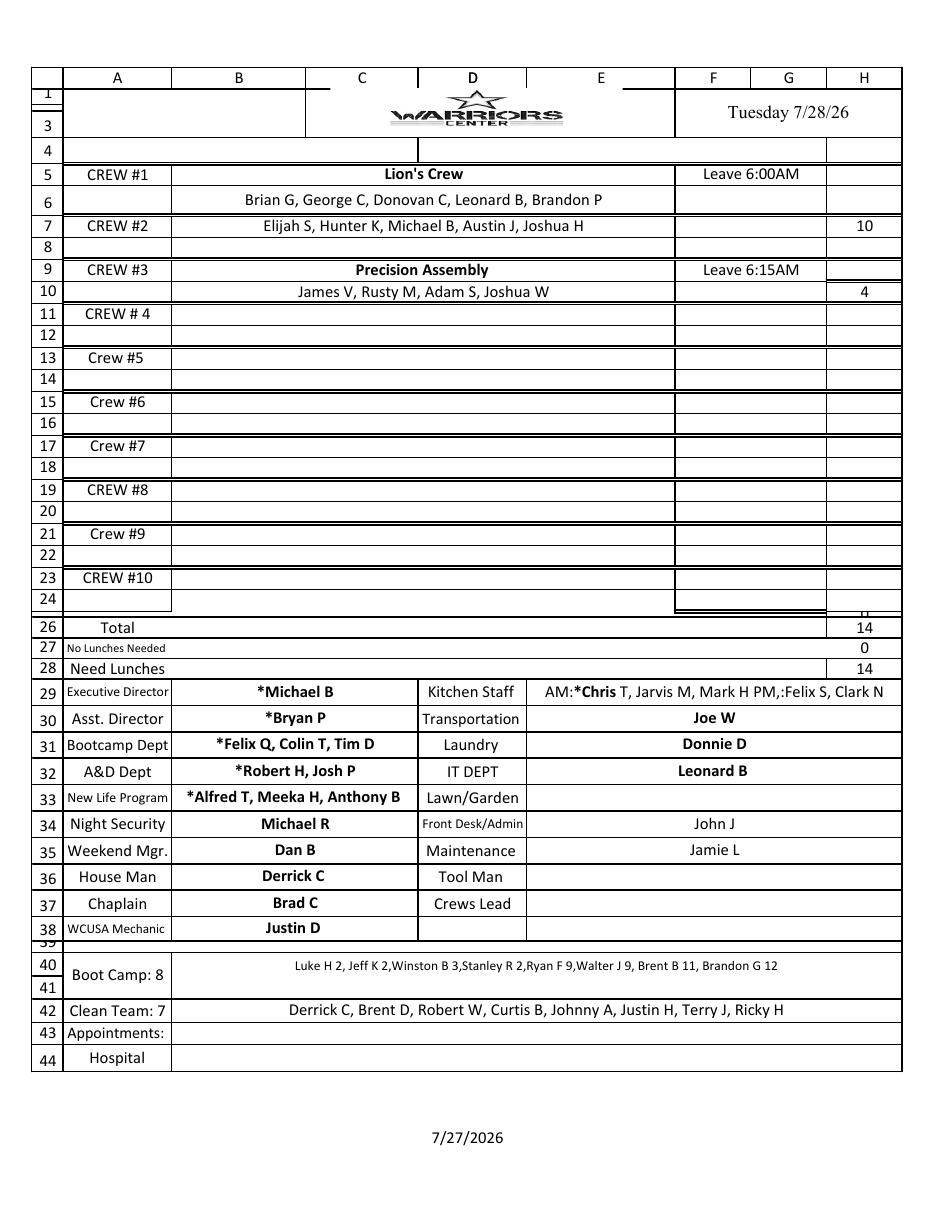
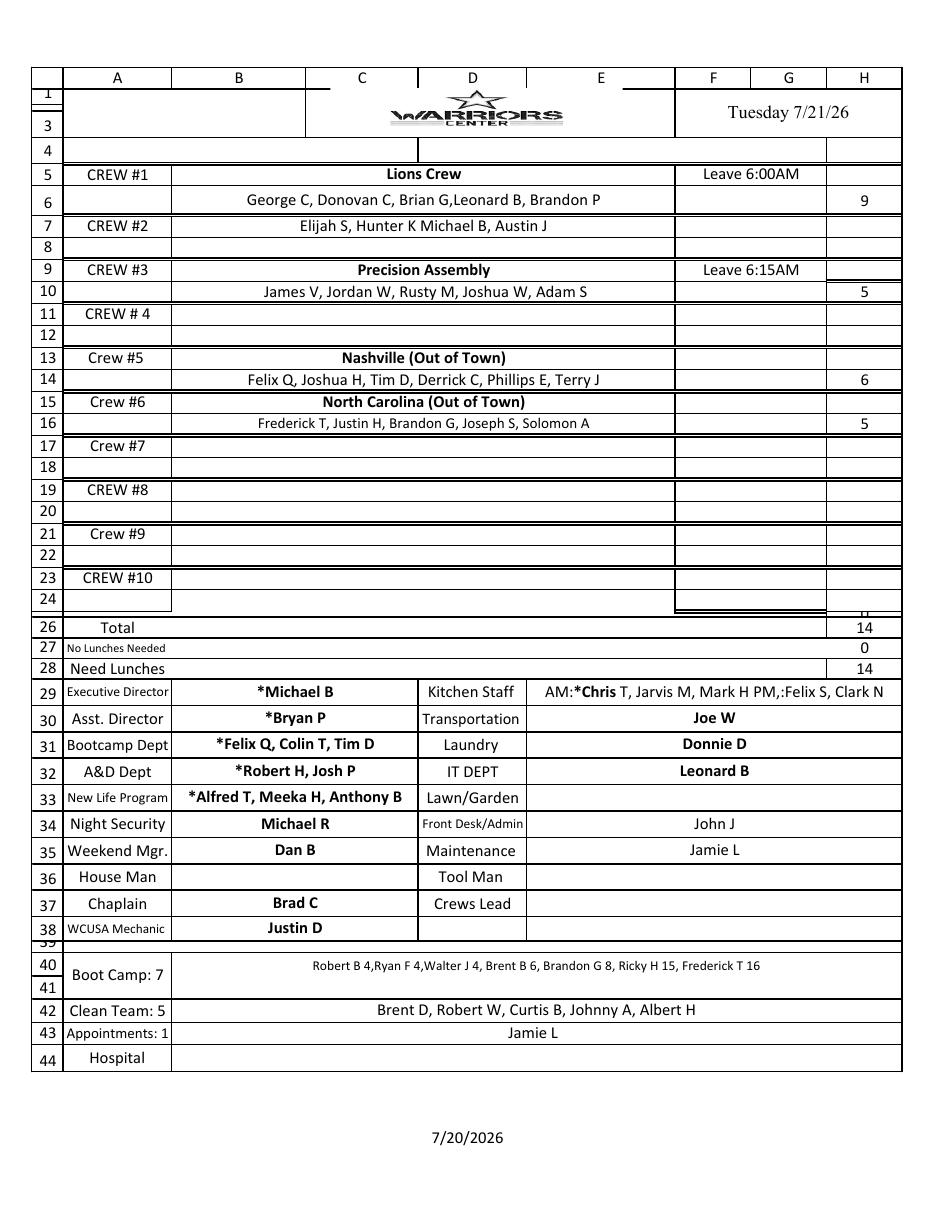
Add files via upload

diff --git a/bedcensus.html b/bedcensus.html
@@ -50,7 +50,7 @@
 <a class="back-link" href="index.html">&larr; Back to Dashboard</a>
 <h1>Warriors Center &mdash; Bed Census, All Centers</h1>
 <div class="sub">Room-by-room census as of the most recent fetch for each center.</div>
-<div class="generated">Page generated July 28, 2026</div>
+<div class="generated">Page generated July 29, 2026</div>
 <div class="nav"><a href="#Memphis">Memphis</a><a href="#Bolivar">Bolivar</a><a href="#OliveBranch">Olive Branch</a><a href="#Hardeman">Hardeman</a><a href="#NewAlbany">New Albany</a></div>
 
 <div class="center-section" id="Memphis">
@@ -86,13 +86,13 @@
 <div class="center-section" id="OliveBranch">
   <div class="center-header">
     <h2>Olive Branch</h2>
-    <div class="center-meta">Week of 07/27/26 &middot; 46 people listed</div>
+    <div class="center-meta">Week of 07/27/26 &middot; 45 people listed</div>
   </div>
   <div class="card-wrap">
     <table>
       <thead><tr><th>Room</th><th>Bed</th><th>Name</th><th>Rank</th><th>Sp. Lvl</th></tr></thead>
       <tbody>
-        <tr><td>1</td><td>1</td><td>Amanda Russell</td><td>E-1</td><td>L-0</td></tr><tr><td>1</td><td>2</td><td>Amber Gilchrest</td><td>E-2</td><td>L-0</td></tr><tr><td>1</td><td>3</td><td>Ashley Florez</td><td>Bootcamp</td><td>L-0</td></tr><tr><td>1</td><td>4</td><td>Miquala Shipp</td><td>Bootcamp</td><td>L-0</td></tr><tr><td>1</td><td>5</td><td>Annie Hackney</td><td>Bootcamp</td><td>L-0</td></tr><tr><td>2</td><td>1</td><td>Christina Huggins</td><td>Bootcamp</td><td>L-0</td></tr><tr><td>2</td><td>2</td><td>Kristie Jackson</td><td>Bootcamp</td><td>NA</td></tr><tr><td>2</td><td>3</td><td>Madison Parker</td><td>Bootcamp</td><td>L-0</td></tr><tr><td>3</td><td>1</td><td>Maxine Musgrove</td><td>E-5</td><td>L-1</td></tr><tr><td>3</td><td>2</td><td>Suzanne Clark</td><td>E-1</td><td>L-0</td></tr><tr><td>3</td><td>3</td><td>Vanessa Walker</td><td>E-1</td><td>L-0</td></tr><tr class="open-row"><td>3</td><td>4</td><td>Open</td><td>Open</td><td>Open</td></tr><tr><td>4</td><td>1</td><td>Theresa Wagner</td><td>Recruit</td><td>L-0</td></tr><tr><td>4</td><td>2</td><td>Marian Jones</td><td>Bootcamp</td><td>L-0</td></tr><tr><td>4</td><td>3</td><td>Jezivell Estep</td><td>Recruit</td><td>L-0</td></tr><tr><td>5</td><td>1</td><td>Janice Crews</td><td>E-6</td><td>L-2</td></tr><tr><td>5</td><td>2</td><td>Mia Garrens</td><td>E-4</td><td>L-1</td></tr><tr><td>5</td><td>3</td><td>Melissa Phillips</td><td>Help Staff</td><td>NA</td></tr><tr><td>5</td><td>4</td><td>Gwendolyn Wilson</td><td>E-1</td><td>L-0</td></tr><tr><td>6</td><td>1</td><td>Margaret Coffman</td><td>Recharge</td><td>NA</td></tr><tr><td>6</td><td>2</td><td>Melinda Dandridge</td><td>E-4</td><td>L-1</td></tr><tr><td>7</td><td>1</td><td>Hope Corbell</td><td>Help Staff</td><td>NA</td></tr><tr><td>7</td><td>2</td><td>January Tucker</td><td>E-5</td><td>L-1</td></tr><tr class="open-row"><td>8</td><td>1</td><td>Open</td><td>Open</td><td>Open</td></tr><tr><td>8</td><td>2</td><td>Stacy Matlock</td><td>Help Staff</td><td>NA</td></tr><tr><td>9</td><td>1</td><td>Rachal Overman</td><td>Help Staff</td><td>NA</td></tr><tr class="open-row"><td>Chapel</td><td>1</td><td>Open</td><td>Open</td><td>Open</td></tr><tr class="open-row"><td>Chapel</td><td>2</td><td>Open</td><td>Open</td><td>Open</td></tr><tr class="open-row"><td>Chapel</td><td>3</td><td>Open</td><td>Open</td><td>Open</td></tr><tr class="open-row"><td>Chapel</td><td>4</td><td>Open</td><td>Open</td><td>Open</td></tr><tr class="open-row"><td>Chapel</td><td>5</td><td>Open</td><td>Open</td><td>Open</td></tr><tr class="open-row"><td>Chapel</td><td>6</td><td>Open</td><td>Open</td><td>Open</td></tr><tr class="open-row"><td>Chapel</td><td>7</td><td>Open</td><td>Open</td><td>Open</td></tr><tr class="open-row"><td>Chapel</td><td>8</td><td>Open</td><td>Open</td><td>Open</td></tr><tr class="open-row"><td>Chapel</td><td>9</td><td>Open</td><td>Open</td><td>Open</td></tr><tr><td>grad house</td><td>1</td><td>Susan Hankins</td><td>Help Staff</td><td>NA</td></tr><tr><td>grad house</td><td>2</td><td>Cicely Guy</td><td>Help Staff</td><td>NA</td></tr><tr><td>grad house</td><td>3</td><td>Stephanie Chambers</td><td>Executive Staff</td><td>NA</td></tr><tr><td>grad house</td><td>4</td><td>Holly Tate</td><td>Help Staff</td><td>NA</td></tr><tr class="open-row"><td>grad house</td><td>5</td><td>Open</td><td>Open</td><td>Open</td></tr><tr><td>grad house</td><td>6</td><td>Melissa Hayes</td><td>Help Staff</td><td>NA</td></tr><tr><td>grad house</td><td>7</td><td>Tina Overman</td><td>Help Staff</td><td>NA</td></tr><tr><td>grad house</td><td>8</td><td>Debbie Brewer</td><td>Help Staff</td><td>NA</td></tr><tr><td>grad house</td><td>9</td><td>Veronica Rebertus</td><td>Help Staff</td><td>NA</td></tr><tr><td>grad house</td><td>10</td><td>Sabrina Hicks</td><td>Help Staff</td><td>NA</td></tr><tr><td>staff house</td><td>1</td><td>Lucia Strauss</td><td>Executive Staff</td><td>NA</td></tr><tr><td>staff house</td><td>2</td><td>Wendy Nelson</td><td>E-6</td><td>L-2</td></tr><tr><td>staff house</td><td>3</td><td>Susan Turman</td><td>Help Staff</td><td>NA</td></tr><tr><td>staff house</td><td>4</td><td>Tiffany Jackson</td><td>E-6</td><td>L-2</td></tr><tr><td>staff house</td><td>5</td><td>Angie Miller</td><td>Help Staff</td><td>NA</td></tr><tr><td>staff house</td><td>6</td><td>Renee Thompson</td><td>Graduate</td><td>NA</td></tr><tr><td>staff house</td><td>7</td><td>Destinii Winborne</td><td>E-7</td><td>L-2</td></tr><tr><td>staff house</td><td>8</td><td>Sandy Gross</td><td>Help Staff</td><td>NA</td></tr><tr><td>staff house</td><td>9</td><td>Katrina Jones</td><td>E-8</td><td>L-3</td></tr><tr><td>staff house</td><td>10</td><td>Tanya Howell</td><td>E-9</td><td>L-3</td></tr><tr><td>staff house</td><td>11</td><td>Emily Rhea</td><td>Graduate</td><td>NA</td></tr><tr><td>staff house</td><td>12</td><td>Pamela Ross</td><td>Help Staff</td><td>NA</td></tr><tr><td>staff house</td><td>13</td><td>Racheal Culver</td><td>E-5</td><td>L-1</td></tr>
+        <tr><td>1</td><td>1</td><td>Amanda Russell</td><td>E-1</td><td>L-0</td></tr><tr><td>1</td><td>2</td><td>Amber Gilchrest</td><td>E-2</td><td>L-0</td></tr><tr><td>1</td><td>3</td><td>Ashley Florez</td><td>Bootcamp</td><td>L-0</td></tr><tr><td>1</td><td>4</td><td>Miquala Shipp</td><td>Bootcamp</td><td>L-0</td></tr><tr><td>1</td><td>5</td><td>Annie Hackney</td><td>Bootcamp</td><td>L-0</td></tr><tr><td>2</td><td>1</td><td>Christina Huggins</td><td>Bootcamp</td><td>L-0</td></tr><tr><td>2</td><td>2</td><td>Kristie Jackson</td><td>Bootcamp</td><td>NA</td></tr><tr><td>2</td><td>3</td><td>Madison Parker</td><td>Bootcamp</td><td>L-0</td></tr><tr><td>3</td><td>1</td><td>Maxine Musgrove</td><td>E-5</td><td>L-1</td></tr><tr><td>3</td><td>2</td><td>Suzanne Clark</td><td>E-1</td><td>L-0</td></tr><tr><td>3</td><td>3</td><td>Vanessa Walker</td><td>E-1</td><td>L-0</td></tr><tr class="open-row"><td>3</td><td>4</td><td>Open</td><td>Open</td><td>Open</td></tr><tr><td>4</td><td>1</td><td>Theresa Wagner</td><td>Recruit</td><td>L-0</td></tr><tr><td>4</td><td>2</td><td>Marian Jones</td><td>Bootcamp</td><td>L-0</td></tr><tr><td>4</td><td>3</td><td>Jezivell Estep</td><td>Recruit</td><td>L-0</td></tr><tr><td>5</td><td>1</td><td>Janice Crews</td><td>E-6</td><td>L-2</td></tr><tr><td>5</td><td>2</td><td>Mia Garrens</td><td>E-4</td><td>L-1</td></tr><tr><td>5</td><td>3</td><td>Melissa Phillips</td><td>Help Staff</td><td>NA</td></tr><tr><td>5</td><td>4</td><td>Gwendolyn Wilson</td><td>E-1</td><td>L-0</td></tr><tr><td>6</td><td>1</td><td>Margaret Coffman</td><td>Recharge</td><td>NA</td></tr><tr><td>6</td><td>2</td><td>Melinda Dandridge</td><td>E-4</td><td>L-1</td></tr><tr><td>7</td><td>1</td><td>Hope Corbell</td><td>Help Staff</td><td>NA</td></tr><tr><td>7</td><td>2</td><td>January Tucker</td><td>E-5</td><td>L-1</td></tr><tr class="open-row"><td>8</td><td>1</td><td>Open</td><td>Open</td><td>Open</td></tr><tr><td>8</td><td>2</td><td>Stacy Matlock</td><td>Help Staff</td><td>NA</td></tr><tr><td>9</td><td>1</td><td>Rachal Overman</td><td>Help Staff</td><td>NA</td></tr><tr class="open-row"><td>Chapel</td><td>1</td><td>Open</td><td>Open</td><td>Open</td></tr><tr class="open-row"><td>Chapel</td><td>2</td><td>Open</td><td>Open</td><td>Open</td></tr><tr class="open-row"><td>Chapel</td><td>3</td><td>Open</td><td>Open</td><td>Open</td></tr><tr class="open-row"><td>Chapel</td><td>4</td><td>Open</td><td>Open</td><td>Open</td></tr><tr class="open-row"><td>Chapel</td><td>5</td><td>Open</td><td>Open</td><td>Open</td></tr><tr class="open-row"><td>Chapel</td><td>6</td><td>Open</td><td>Open</td><td>Open</td></tr><tr class="open-row"><td>Chapel</td><td>7</td><td>Open</td><td>Open</td><td>Open</td></tr><tr class="open-row"><td>Chapel</td><td>8</td><td>Open</td><td>Open</td><td>Open</td></tr><tr class="open-row"><td>Chapel</td><td>9</td><td>Open</td><td>Open</td><td>Open</td></tr><tr><td>grad house</td><td>1</td><td>Susan Hankins</td><td>Help Staff</td><td>NA</td></tr><tr><td>grad house</td><td>2</td><td>Cicely Guy</td><td>Help Staff</td><td>NA</td></tr><tr><td>grad house</td><td>3</td><td>Stephanie Chambers</td><td>Executive Staff</td><td>NA</td></tr><tr><td>grad house</td><td>4</td><td>Holly Tate</td><td>Help Staff</td><td>NA</td></tr><tr class="open-row"><td>grad house</td><td>5</td><td>Open</td><td>Open</td><td>Open</td></tr><tr><td>grad house</td><td>6</td><td>Melissa Hayes</td><td>Help Staff</td><td>NA</td></tr><tr><td>grad house</td><td>7</td><td>Tina Overman</td><td>Help Staff</td><td>NA</td></tr><tr><td>grad house</td><td>8</td><td>Debbie Brewer</td><td>Help Staff</td><td>NA</td></tr><tr><td>grad house</td><td>9</td><td>Veronica Rebertus</td><td>Help Staff</td><td>NA</td></tr><tr><td>grad house</td><td>10</td><td>Sabrina Hicks</td><td>Help Staff</td><td>NA</td></tr><tr><td>staff house</td><td>1</td><td>Lucia Strauss</td><td>Executive Staff</td><td>NA</td></tr><tr><td>staff house</td><td>2</td><td>Wendy Nelson</td><td>E-6</td><td>L-2</td></tr><tr><td>staff house</td><td>3</td><td>Susan Turman</td><td>Help Staff</td><td>NA</td></tr><tr><td>staff house</td><td>4</td><td>Tiffany Jackson</td><td>E-6</td><td>L-2</td></tr><tr><td>staff house</td><td>5</td><td>Angie Miller</td><td>Help Staff</td><td>NA</td></tr><tr><td>staff house</td><td>6</td><td>Renee Thompson</td><td>Graduate</td><td>NA</td></tr><tr><td>staff house</td><td>7</td><td>Destinii Winborne</td><td>E-7</td><td>L-2</td></tr><tr><td>staff house</td><td>8</td><td>Sandy Gross</td><td>Help Staff</td><td>NA</td></tr><tr><td>staff house</td><td>9</td><td>Katrina Jones</td><td>E-8</td><td>L-3</td></tr><tr class="open-row"><td>staff house</td><td>10</td><td>Open</td><td>Open</td><td>Open</td></tr><tr><td>staff house</td><td>11</td><td>Emily Rhea</td><td>Graduate</td><td>NA</td></tr><tr><td>staff house</td><td>12</td><td>Pamela Ross</td><td>Help Staff</td><td>NA</td></tr><tr><td>staff house</td><td>13</td><td>Racheal Culver</td><td>E-5</td><td>L-1</td></tr>
       </tbody>
     </table>
   </div>
@@ -116,13 +116,13 @@
 <div class="center-section" id="NewAlbany">
   <div class="center-header">
     <h2>New Albany</h2>
-    <div class="center-meta">Week of 07/20/26 &middot; 14 people listed</div>
+    <div class="center-meta">Week of 07/06/26 &middot; 15 people listed</div>
   </div>
   <div class="card-wrap">
     <table>
       <thead><tr><th>Room</th><th>Bed</th><th>Name</th><th>Rank</th><th>Sp. Lvl</th></tr></thead>
       <tbody>
-        <tr class="open-row"><td>1</td><td>1</td><td>Open</td><td>Open</td><td>Open</td></tr><tr><td>1</td><td>2</td><td>Courtney Riddle</td><td>Help Staff</td><td>NA</td></tr><tr><td>1</td><td>3</td><td>Clarissa Resley</td><td>Help Staff</td><td>NA</td></tr><tr><td>1</td><td>4</td><td>Brandy Woods</td><td>Bootcamp</td><td>L-0</td></tr><tr><td>2</td><td>1</td><td>Dawn Farmer</td><td>Bootcamp</td><td>L-0</td></tr><tr><td>2</td><td>2</td><td>Kimetra Wright</td><td>Help Staff</td><td>NA</td></tr><tr><td>2</td><td>3</td><td>Crystal Lipsey</td><td>E-5</td><td>L-1</td></tr><tr><td>2</td><td>4</td><td>Shannon Hopkins</td><td>Help Staff</td><td>NA</td></tr><tr class="open-row"><td>3</td><td>1</td><td>Open</td><td>Open</td><td>Open</td></tr><tr><td>3</td><td>2</td><td>Anita Sartino</td><td>E-2</td><td>L-0</td></tr><tr class="open-row"><td>3</td><td>3</td><td>Open</td><td>Open</td><td>Open</td></tr><tr><td>3</td><td>4</td><td>Sable Lumpkins</td><td>Executive Staff</td><td>NA</td></tr><tr><td>4</td><td>1</td><td>Tracy Ramsey</td><td>Help Staff</td><td>NA</td></tr><tr><td>4</td><td>2</td><td>Linda Baillio</td><td>Executive Staff</td><td>NA</td></tr><tr><td>4</td><td>3</td><td>Mary Feathers</td><td>E-7</td><td>L-2</td></tr><tr class="open-row"><td>4</td><td>4</td><td>Open</td><td>Open</td><td>Open</td></tr><tr><td>5</td><td>1</td><td>Theresa Hughes</td><td>Executive Staff</td><td>NA</td></tr><tr><td>5</td><td>2</td><td>Cara Byrd</td><td>Executive Staff</td><td>NA</td></tr><tr class="open-row"><td>6</td><td>1</td><td>Open</td><td>Open</td><td>Open</td></tr><tr class="open-row"><td>6</td><td>2</td><td>Open</td><td>Open</td><td>Open</td></tr><tr class="open-row"><td>6</td><td>3</td><td>Open</td><td>Open</td><td>Open</td></tr><tr class="open-row"><td>6</td><td>4</td><td>Open</td><td>Open</td><td>Open</td></tr><tr class="open-row"><td>7</td><td>1</td><td>Open</td><td>Open</td><td>Open</td></tr><tr class="open-row"><td>7</td><td>2</td><td>Open</td><td>Open</td><td>Open</td></tr><tr class="open-row"><td>7</td><td>3</td><td>Open</td><td>Open</td><td>Open</td></tr><tr class="open-row"><td>7</td><td>4</td><td>Open</td><td>Open</td><td>Open</td></tr><tr class="open-row"><td>8</td><td>1</td><td>Open</td><td>Open</td><td>Open</td></tr><tr class="open-row"><td>8</td><td>2</td><td>Open</td><td>Open</td><td>Open</td></tr><tr class="open-row"><td>8</td><td>3</td><td>Open</td><td>Open</td><td>Open</td></tr><tr class="open-row"><td>8</td><td>4</td><td>Open</td><td>Open</td><td>Open</td></tr><tr class="open-row"><td>9</td><td>1</td><td>Open</td><td>Open</td><td>Open</td></tr><tr class="open-row"><td>9</td><td>2</td><td>Open</td><td>Open</td><td>Open</td></tr><tr class="open-row"><td>9</td><td>3</td><td>Open</td><td>Open</td><td>Open</td></tr><tr class="open-row"><td>9</td><td>4</td><td>Open</td><td>Open</td><td>Open</td></tr><tr class="open-row"><td>10</td><td>1</td><td>Open</td><td>Open</td><td>Open</td></tr><tr class="open-row"><td>10</td><td>2</td><td>Open</td><td>Open</td><td>Open</td></tr>
+        <tr class="open-row"><td>1</td><td>1</td><td>Open</td><td>Open</td><td>Open</td></tr><tr><td>1</td><td>2</td><td>Courtney Riddle</td><td>Help Staff</td><td>NA</td></tr><tr><td>1</td><td>3</td><td>Clarissa Resley</td><td>Help Staff</td><td>NA</td></tr><tr><td>1</td><td>4</td><td>Brandy Woods</td><td>Bootcamp</td><td>L-0</td></tr><tr><td>2</td><td>1</td><td>Dawn Farmer</td><td>Bootcamp</td><td>L-0</td></tr><tr><td>2</td><td>2</td><td>Kimetra Wright</td><td>Help Staff</td><td>NA</td></tr><tr><td>2</td><td>3</td><td>Crystal Lipsey</td><td>E-5</td><td>L-1</td></tr><tr><td>2</td><td>4</td><td>Shannon Hopkins</td><td>Help Staff</td><td>NA</td></tr><tr class="open-row"><td>3</td><td>1</td><td>Open</td><td>Open</td><td>Open</td></tr><tr><td>3</td><td>2</td><td>Anita Sartino</td><td>E-2</td><td>L-0</td></tr><tr class="open-row"><td>3</td><td>3</td><td>Open</td><td>Open</td><td>Open</td></tr><tr><td>3</td><td>4</td><td>Sable Lumpkins</td><td>Executive Staff</td><td>NA</td></tr><tr><td>4</td><td>1</td><td>Tracy Ramsey</td><td>Help Staff</td><td>NA</td></tr><tr><td>4</td><td>2</td><td>Linda Baillio</td><td>Executive Staff</td><td>NA</td></tr><tr><td>4</td><td>3</td><td>Mary Feathers</td><td>E-5</td><td>L-1</td></tr><tr><td>4</td><td>4</td><td>Samantha Barnes</td><td>Bootcamp</td><td>L-0</td></tr><tr><td>5</td><td>1</td><td>Theresa Hughes</td><td>Executive Staff</td><td>NA</td></tr><tr><td>5</td><td>2</td><td>Cara Byrd</td><td>Executive Staff</td><td>NA</td></tr><tr class="open-row"><td>6</td><td>1</td><td>Open</td><td>Open</td><td>Open</td></tr><tr class="open-row"><td>6</td><td>2</td><td>Open</td><td>Open</td><td>Open</td></tr><tr class="open-row"><td>6</td><td>3</td><td>Open</td><td>Open</td><td>Open</td></tr><tr class="open-row"><td>6</td><td>4</td><td>Open</td><td>Open</td><td>Open</td></tr><tr class="open-row"><td>7</td><td>1</td><td>Open</td><td>Open</td><td>Open</td></tr><tr class="open-row"><td>7</td><td>2</td><td>Open</td><td>Open</td><td>Open</td></tr><tr class="open-row"><td>7</td><td>3</td><td>Open</td><td>Open</td><td>Open</td></tr><tr class="open-row"><td>7</td><td>4</td><td>Open</td><td>Open</td><td>Open</td></tr><tr class="open-row"><td>8</td><td>1</td><td>Open</td><td>Open</td><td>Open</td></tr><tr class="open-row"><td>8</td><td>2</td><td>Open</td><td>Open</td><td>Open</td></tr><tr class="open-row"><td>8</td><td>3</td><td>Open</td><td>Open</td><td>Open</td></tr><tr class="open-row"><td>8</td><td>4</td><td>Open</td><td>Open</td><td>Open</td></tr><tr class="open-row"><td>9</td><td>1</td><td>Open</td><td>Open</td><td>Open</td></tr><tr class="open-row"><td>9</td><td>2</td><td>Open</td><td>Open</td><td>Open</td></tr><tr class="open-row"><td>9</td><td>3</td><td>Open</td><td>Open</td><td>Open</td></tr><tr class="open-row"><td>9</td><td>4</td><td>Open</td><td>Open</td><td>Open</td></tr><tr class="open-row"><td>10</td><td>1</td><td>Open</td><td>Open</td><td>Open</td></tr><tr class="open-row"><td>10</td><td>2</td><td>Open</td><td>Open</td><td>Open</td></tr>
       </tbody>
     </table>
   </div>

diff --git a/index.html b/index.html
@@ -5026,6 +5026,274 @@
         "cost_ytd": 1921642.05,
         "cost_as_of_date": "2026-06-30"
       }
+    },
+    {
+      "date": "2026-07-29",
+      "generated_at": "2026-07-29T10:18:52.764483",
+      "centers": {
+        "Memphis": {
+          "as_of_date": "2026-07-27",
+          "beds_occupied": 63,
+          "total_beds": 69,
+          "occupancy_pct": 91.3,
+          "staff_grad_beds": 8,
+          "program_residents": 55,
+          "rank_counts": {
+            "Bootcamp": 7,
+            "Recruit": 10,
+            "Recharge": 3,
+            "E-1": 9,
+            "E-2": 4,
+            "E-3": 4,
+            "E-4": 2,
+            "E-5": 3,
+            "E-6": 6,
+            "E-7": 3,
+            "E-8": 3,
+            "E-9": 2,
+            "Graduate": 14,
+            "Help Staff": 11,
+            "Executive Staff": 2
+          },
+          "occ_methodology": "bed_census",
+          "ytd_arrivals": 126,
+          "ytd_departures": 114,
+          "ytd_net": 12,
+          "t30_arrivals": 4,
+          "t30_departures": 1,
+          "t30_net": 3,
+          "avg_los_days_since_1_1_25": 61.9,
+          "bootcamp_cohort_n": 106,
+          "bootcamp_completed_n": 49,
+          "bootcamp_completion_pct": 46.2,
+          "recharge_current_count": 8,
+          "core_program_current": 65,
+          "recharge_pct_current": 12.3,
+          "graduates_current_year": 2,
+          "graduates_since_1_1_25": 13,
+          "cost_per_bed_day": 41.45,
+          "cost_ytd": 660145.48,
+          "cost_as_of_date": "2026-06-30"
+        },
+        "Bolivar": {
+          "as_of_date": "2026-07-28",
+          "beds_occupied": 60,
+          "total_beds": 67,
+          "occupancy_pct": 89.6,
+          "staff_grad_beds": 26,
+          "program_residents": 34,
+          "rank_counts": {
+            "Bootcamp": 9,
+            "Recruit": 3,
+            "Recharge": 1,
+            "E-1": 8,
+            "E-2": 4,
+            "E-3": 2,
+            "E-4": 3,
+            "E-5": 0,
+            "E-6": 2,
+            "E-7": 1,
+            "E-8": 1,
+            "E-9": 0,
+            "Graduate": 20,
+            "Help Staff": 7,
+            "Executive Staff": 3
+          },
+          "occ_methodology": "bed_census",
+          "ytd_arrivals": 83,
+          "ytd_departures": 83,
+          "ytd_net": 0,
+          "t30_arrivals": 0,
+          "t30_departures": 0,
+          "t30_net": 0,
+          "avg_los_days_since_1_1_25": 61.7,
+          "bootcamp_cohort_n": 76,
+          "bootcamp_completed_n": 27,
+          "bootcamp_completion_pct": 35.5,
+          "recharge_current_count": 2,
+          "core_program_current": 37,
+          "recharge_pct_current": 5.4,
+          "graduates_current_year": 6,
+          "graduates_since_1_1_25": 15,
+          "cost_per_bed_day": 31.42,
+          "cost_ytd": 420773.68,
+          "cost_as_of_date": "2026-06-30"
+        },
+        "Olive Branch": {
+          "as_of_date": "2026-07-28",
+          "beds_occupied": 24,
+          "total_beds": 26,
+          "occupancy_pct": 92.3,
+          "staff_grad_beds": 4,
+          "program_residents": 20,
+          "rank_counts": {
+            "Bootcamp": 7,
+            "Recruit": 2,
+            "Recharge": 1,
+            "E-1": 4,
+            "E-2": 1,
+            "E-3": 0,
+            "E-4": 2,
+            "E-5": 3,
+            "E-6": 3,
+            "E-7": 1,
+            "E-8": 1,
+            "E-9": 0,
+            "Graduate": 2,
+            "Help Staff": 16,
+            "Executive Staff": 2
+          },
+          "occ_methodology": "bed_census",
+          "ytd_arrivals": 38,
+          "ytd_departures": 33,
+          "ytd_net": 5,
+          "t30_arrivals": 1,
+          "t30_departures": 2,
+          "t30_net": -1,
+          "avg_los_days_since_1_1_25": 91.6,
+          "bootcamp_cohort_n": 29,
+          "bootcamp_completed_n": 13,
+          "bootcamp_completion_pct": 44.8,
+          "recharge_current_count": 2,
+          "core_program_current": 27,
+          "recharge_pct_current": 7.4,
+          "graduates_current_year": 6,
+          "graduates_since_1_1_25": 26,
+          "cost_per_bed_day": 50.58,
+          "cost_ytd": 448607.35,
+          "cost_as_of_date": "2026-06-30"
+        },
+        "Hardeman": {
+          "as_of_date": "2026-07-28",
+          "beds_occupied": 17,
+          "total_beds": 17,
+          "occupancy_pct": 100.0,
+          "staff_grad_beds": 7,
+          "program_residents": 10,
+          "rank_counts": {
+            "Bootcamp": 2,
+            "Recruit": 0,
+            "Recharge": 2,
+            "E-1": 0,
+            "E-2": 2,
+            "E-3": 1,
+            "E-4": 0,
+            "E-5": 0,
+            "E-6": 0,
+            "E-7": 1,
+            "E-8": 2,
+            "E-9": 0,
+            "Graduate": 0,
+            "Help Staff": 5,
+            "Executive Staff": 2
+          },
+          "occ_methodology": "bed_census",
+          "ytd_arrivals": 15,
+          "ytd_departures": 12,
+          "ytd_net": 3,
+          "t30_arrivals": 0,
+          "t30_departures": 0,
+          "t30_net": 0,
+          "avg_los_days_since_1_1_25": 109.7,
+          "bootcamp_cohort_n": 14,
+          "bootcamp_completed_n": 7,
+          "bootcamp_completion_pct": 50.0,
+          "recharge_current_count": 3,
+          "core_program_current": 11,
+          "recharge_pct_current": 27.3,
+          "graduates_current_year": 2,
+          "graduates_since_1_1_25": 6,
+          "cost_per_bed_day": 69.0,
+          "cost_ytd": 212301.6,
+          "cost_as_of_date": "2026-06-30"
+        },
+        "New Albany": {
+          "as_of_date": "2026-07-24",
+          "beds_occupied": 15,
+          "total_beds": 18,
+          "occupancy_pct": 83.3,
+          "staff_grad_beds": 9,
+          "program_residents": 6,
+          "rank_counts": {
+            "Bootcamp": 3,
+            "Recruit": 0,
+            "Recharge": 0,
+            "E-1": 0,
+            "E-2": 1,
+            "E-3": 0,
+            "E-4": 0,
+            "E-5": 2,
+            "E-6": 0,
+            "E-7": 0,
+            "E-8": 0,
+            "E-9": 0,
+            "Graduate": 0,
+            "Help Staff": 5,
+            "Executive Staff": 4
+          },
+          "occ_methodology": "bed_census",
+          "ytd_arrivals": 15,
+          "ytd_departures": 22,
+          "ytd_net": -7,
+          "t30_arrivals": 0,
+          "t30_departures": 0,
+          "t30_net": 0,
+          "avg_los_days_since_1_1_25": 55.1,
+          "bootcamp_cohort_n": 10,
+          "bootcamp_completed_n": 5,
+          "bootcamp_completion_pct": 50.0,
+          "recharge_current_count": 0,
+          "core_program_current": 6,
+          "recharge_pct_current": 0.0,
+          "graduates_current_year": 1,
+          "graduates_since_1_1_25": 4,
+          "cost_per_bed_day": 53.93,
+          "cost_ytd": 179813.94,
+          "cost_as_of_date": "2026-06-30"
+        }
+      },
+      "system": {
+        "occupancy_pct": 90.9,
+        "beds_occupied": 179,
+        "total_beds": 197,
+        "staff_grad_beds": 54,
+        "program_residents": 125,
+        "rank_counts": {
+          "Bootcamp": 28,
+          "Recruit": 15,
+          "Recharge": 7,
+          "E-1": 21,
+          "E-2": 12,
+          "E-3": 7,
+          "E-4": 7,
+          "E-5": 8,
+          "E-6": 11,
+          "E-7": 6,
+          "E-8": 7,
+          "E-9": 2,
+          "Graduate": 36,
+          "Help Staff": 44,
+          "Executive Staff": 13
+        },
+        "ytd_arrivals": 277,
+        "ytd_departures": 264,
+        "ytd_net": 13,
+        "t30_arrivals": 5,
+        "t30_departures": 3,
+        "t30_net": 2,
+        "avg_los_days_since_1_1_25": 76.0,
+        "bootcamp_cohort_n": 235,
+        "bootcamp_completed_n": 101,
+        "bootcamp_completion_pct": 43.0,
+        "recharge_current_count": 15,
+        "core_program_current": 146,
+        "recharge_pct_current": 10.3,
+        "graduates_current_year": 17,
+        "graduates_since_1_1_25": 64,
+        "cost_per_bed_day": 43.08,
+        "cost_ytd": 1921642.05,
+        "cost_as_of_date": "2026-06-30"
+      }
     }
   ]
 }

diff --git a/schedules.html b/schedules.html
@@ -51,40 +51,40 @@
 <a class="back-link" href="index.html">&larr; Back to Dashboard</a>
 <h1>Warriors Center &mdash; Daily Schedules</h1>
 <div class="sub">Each center's most recently posted crew/duty schedule. Click an image to open it full-size.</div>
-<div class="generated">Page generated July 28, 2026</div>
+<div class="generated">Page generated July 29, 2026</div>
 <div class="nav"><a href="#Memphis">Memphis</a><a href="#Bolivar">Bolivar</a><a href="#OliveBranch">Olive Branch</a><a href="#Hardeman">Hardeman</a></div>
 <div class="grid">
 
 <div class="center-card" id="Memphis">
   <div class="card-header">
     <h2>Memphis</h2>
-    <span class="badge">2026-07-27</span>
+    <span class="badge">2026-07-29</span>
   </div>
-  <div class="card-meta">Monday, July 27, 2026</div>
+  <div class="card-meta">Wednesday, July 29, 2026</div>
   <a href="schedule_Memphis.jpg" target="_blank" rel="noopener">
-    <img class="sched-img" src="schedule_Memphis.jpg" alt="Memphis schedule, Monday, July 27, 2026">
+    <img class="sched-img" src="schedule_Memphis.jpg" alt="Memphis schedule, Wednesday, July 29, 2026">
   </a>
 </div>
 
 <div class="center-card" id="Bolivar">
   <div class="card-header">
     <h2>Bolivar</h2>
-    <span class="badge">2026-07-28</span>
+    <span class="badge badge-stale">2026-07-21</span>
   </div>
-  <div class="card-meta">Tuesday, July 28, 2026</div>
+  <div class="card-meta">Tuesday, July 21, 2026 &middot; 8 days old - check with center if unexpected</div>
   <a href="schedule_Bolivar.jpg" target="_blank" rel="noopener">
-    <img class="sched-img" src="schedule_Bolivar.jpg" alt="Bolivar schedule, Tuesday, July 28, 2026">
+    <img class="sched-img" src="schedule_Bolivar.jpg" alt="Bolivar schedule, Tuesday, July 21, 2026">
   </a>
 </div>
 
 <div class="center-card" id="OliveBranch">
   <div class="card-header">
     <h2>Olive Branch</h2>
-    <span class="badge">2026-07-28</span>
+    <span class="badge">2026-07-29</span>
   </div>
-  <div class="card-meta">Tuesday, July 28, 2026</div>
+  <div class="card-meta">Wednesday, July 29, 2026</div>
   <a href="schedule_OliveBranch.jpg" target="_blank" rel="noopener">
-    <img class="sched-img" src="schedule_OliveBranch.jpg" alt="Olive Branch schedule, Tuesday, July 28, 2026">
+    <img class="sched-img" src="schedule_OliveBranch.jpg" alt="Olive Branch schedule, Wednesday, July 29, 2026">
   </a>
 </div>
 

diff --git a/arrivals_departures.html b/arrivals_departures.html
@@ -67,8 +67,8 @@
       <h3>Olive Branch</h3>
       <div class="sub-label">Arrivals (1)</div>
       <table><thead><tr><th>Name</th><th>Date</th></tr></thead><tbody><tr><td>Miquala Shipp</td><td>2026-07-27</td></tr></tbody></table>
-      <div class="sub-label">Departures (0)</div>
-      <p class="none-note">No departures this week.</p>
+      <div class="sub-label">Departures (1)</div>
+      <table><thead><tr><th>Name</th><th>Date</th></tr></thead><tbody><tr><td>Tanya Howell</td><td>2026-07-29</td></tr></tbody></table>
     </div>
     <div class="center-block">
       <h3>Hardeman</h3>
@@ -76,7 +76,10 @@
     </div>
     <div class="center-block">
       <h3>New Albany</h3>
-      <p class="none-note">No activity this week.</p>
+      <div class="sub-label">Arrivals (1)</div>
+      <table><thead><tr><th>Name</th><th>Date</th></tr></thead><tbody><tr><td>Samantha Barnes</td><td>2026-07-29</td></tr></tbody></table>
+      <div class="sub-label">Departures (0)</div>
+      <p class="none-note">No departures this week.</p>
     </div>
 </div>
 <div class="week-section">

diff --git a/graduations.html b/graduations.html
@@ -54,7 +54,7 @@
 <a class="back-link" href="index.html">&larr; Back to Dashboard</a>
 <h1>Warriors Center &mdash; Graduation Report</h1>
 <div class="sub">Bootcamp completions, program graduations, completed recharge, staff reverting to graduate status, and returns to Bootcamp across all centers, by month.</div>
-<div class="generated">Page generated July 28, 2026</div>
+<div class="generated">Page generated July 29, 2026</div>
 <div class="nav"><a href="#2026-07">July 2026 (this month)</a></div>
 
 <div class="corrections-section">
